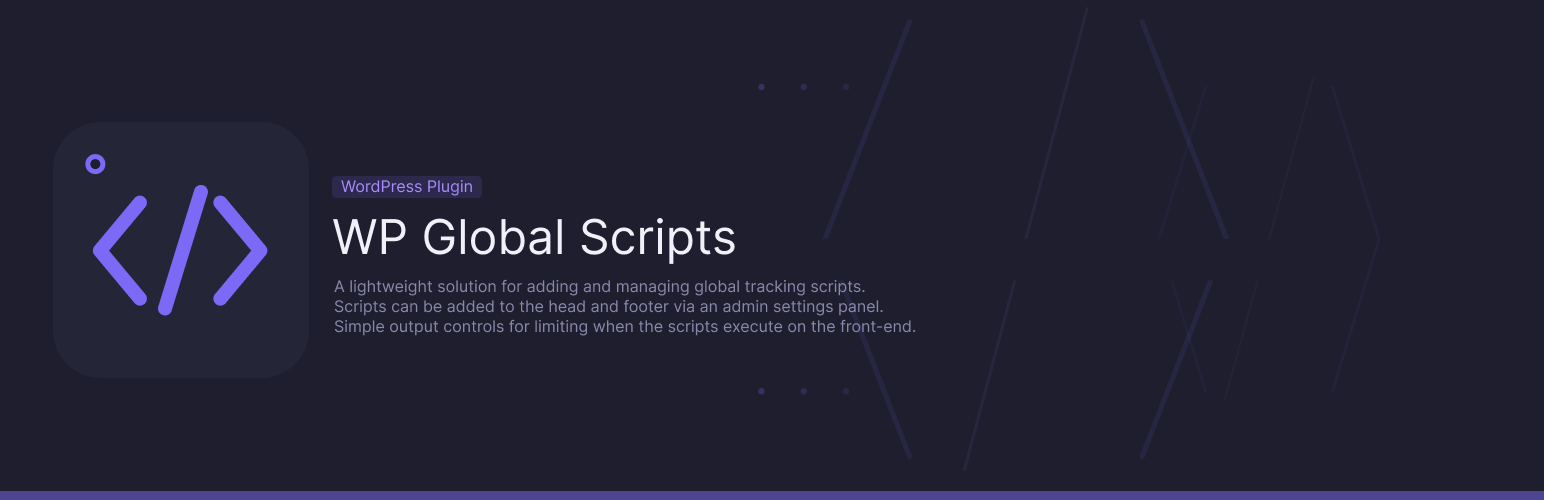
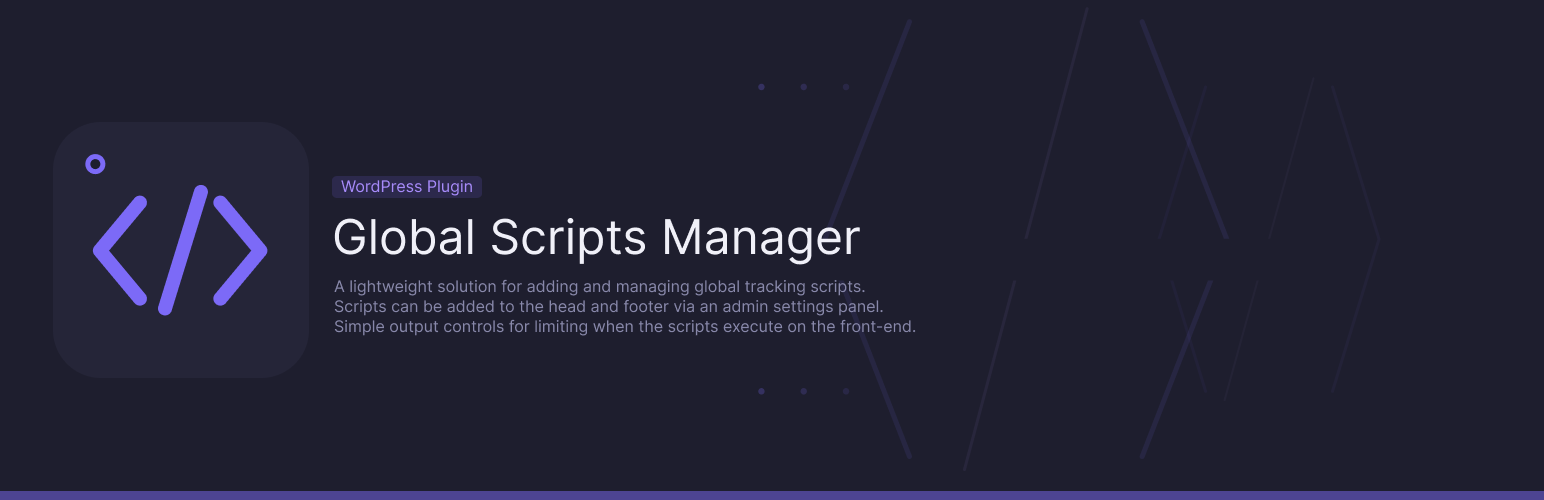
update plugin name, compliance for WP Plugin Checker before submission to wordpress.org

Changed region(s): [[0.2176, 0.42, 0.5596, 0.54]]

diff --git a/includes/admin-page.php b/includes/admin-page.php
@@ -1,23 +1,25 @@
 <?php
 /**
- * Admin page functionality for the WP Global Scripts plugin.
+ * Admin page functionality for the Global Scripts Manager plugin.
  */
 
+if ( ! defined( 'ABSPATH' ) ) exit;
+
 // Add settings page to admin menu
-function gs_add_settings_page() {
+function gsm_add_settings_page() {
   add_options_page(
-    'WP Global Scripts',
+    'Global Scripts Manager',
     'Global Scripts',
     'manage_options',
-    'global-scripts',
-    'gs_render_settings_page'
+    'global-scripts-manager',
+    'gsm_render_settings_page'
   );
 }
-add_action( 'admin_menu', 'gs_add_settings_page' );
+add_action( 'admin_menu', 'gsm_add_settings_page' );
 
 // Load CodeMirror editor on the plugin settings page.
-function gs_enqueue_admin_assets( $hook_suffix ) {
-  if ( 'settings_page_global-scripts' !== $hook_suffix ) {
+function gsm_enqueue_admin_assets( $hook_suffix ) {
+  if ( 'settings_page_global-scripts-manager' !== $hook_suffix ) {
     return;
   }
 
@@ -31,52 +33,52 @@ function gs_enqueue_admin_assets( $hook_suffix ) {
 
     wp_add_inline_script(
       'wp-theme-plugin-editor',
-      "jQuery(function($){var settings={$encoded_settings};wp.codeEditor.initialize('gs_head_scripts', settings);wp.codeEditor.initialize('gs_footer_scripts', settings);});"
+      "jQuery(function($){var settings={$encoded_settings};wp.codeEditor.initialize('gsm_head_scripts', settings);wp.codeEditor.initialize('gsm_footer_scripts', settings);});"
     );
   }
 }
-add_action( 'admin_enqueue_scripts', 'gs_enqueue_admin_assets' );
+add_action( 'admin_enqueue_scripts', 'gsm_enqueue_admin_assets' );
 
 // Add a settings link to the plugin actions on the plugins page
-function gs_add_settings_link( $links ) {
-  $settings_link = '<a href="options-general.php?page=global-scripts">' . __( 'Settings', 'global-scripts' ) . '</a>';
+function gsm_add_settings_link( $links ) {
+  $settings_link = '<a href="options-general.php?page=global-scripts-manager">' . __( 'Settings', 'global-scripts-manager' ) . '</a>';
   array_unshift( $links, $settings_link );
   return $links;
 }
-add_filter( 'plugin_action_links_' . plugin_basename( dirname( __DIR__ ) . '/global-scripts.php' ), 'gs_add_settings_link' );
+add_filter( 'plugin_action_links_' . plugin_basename( dirname( __DIR__ ) . '/global-scripts-manager.php' ), 'gsm_add_settings_link' );
 
 // Register settings for head and footer scripts, and the output control checkboxes.
-function gs_register_settings() {
-  register_setting( 'global_scripts_group', 'gs_head_scripts', [
-    'sanitize_callback' => 'gs_sanitize_scripts',
+function gsm_register_settings() {
+  register_setting( 'global_scripts_group', 'gsm_head_scripts', [
+    'sanitize_callback' => 'gsm_sanitize_scripts',
     'default' => '',
   ]);
 
-  register_setting( 'global_scripts_group', 'gs_footer_scripts', [
-    'sanitize_callback' => 'gs_sanitize_scripts',
+  register_setting( 'global_scripts_group', 'gsm_footer_scripts', [
+    'sanitize_callback' => 'gsm_sanitize_scripts',
     'default' => '',
   ]);
 
-  register_setting( 'global_scripts_group', 'gs_disable_for_admins', [
-    'sanitize_callback' => 'gs_sanitize_checkbox',
+  register_setting( 'global_scripts_group', 'gsm_disable_for_admins', [
+    'sanitize_callback' => 'gsm_sanitize_checkbox',
     'default' => 0,
   ]);
 
-  register_setting( 'global_scripts_group', 'gs_disable_for_logged_in', [
-    'sanitize_callback' => 'gs_sanitize_checkbox',
+  register_setting( 'global_scripts_group', 'gsm_disable_for_logged_in', [
+    'sanitize_callback' => 'gsm_sanitize_checkbox',
     'default' => 0,
   ]);
 }
-add_action( 'admin_init', 'gs_register_settings' );
+add_action( 'admin_init', 'gsm_register_settings' );
 
 // Normalize checkbox values to 1 or 0.
-function gs_sanitize_checkbox( $input ) {
+function gsm_sanitize_checkbox( $input ) {
   return ! empty( $input ) ? 1 : 0;
 }
 
 // Utility function to sanitize script inputs
 // Allow only <script>, <noscript>, and <style> tags and their common attributes
-function gs_sanitize_scripts( $input ) {
+function gsm_sanitize_scripts( $input ) {
   return wp_kses( $input, [
     'script' => [
       'type' => true,
@@ -103,13 +105,13 @@ function gs_sanitize_scripts( $input ) {
 }
 
 // Render the actual options page
-function gs_render_settings_page() {
+function gsm_render_settings_page() {
   // Block users without the manage_options capability
   if ( ! current_user_can( 'manage_options' ) ) return; ?>
 
   <div class="wrap">
     <!-- Title -->
-    <h1><?php esc_html_e( 'WP Global Scripts', 'global-scripts' ); ?></h1>
+    <h1><?php esc_html_e( 'Global Scripts Manager', 'global-scripts-manager' ); ?></h1>
 
     <!-- Styles -->
     <style>
@@ -139,13 +141,13 @@ function gs_render_settings_page() {
 
     <!-- Intro card -->
     <div class="gs-intro-card">
-      <h2><?php esc_html_e( 'Add trusted scripts with confidence', 'global-scripts' ); ?></h2>
-      <p><?php esc_html_e( 'Use the editors below to add site-wide scripts for your header and footer.', 'global-scripts' ); ?></p>
+      <h2><?php esc_html_e( 'Add trusted scripts with confidence', 'global-scripts-manager' ); ?></h2>
+      <p><?php esc_html_e( 'Use the editors below to add site-wide scripts for your header and footer.', 'global-scripts-manager' ); ?></p>
       <ul class="gs-checklist">
-        <li><?php esc_html_e( 'Paste snippets only from trusted providers.', 'global-scripts' ); ?></li>
-        <li><?php esc_html_e( 'Use the output toggles to avoid tracking admin sessions.', 'global-scripts' ); ?></li>
-        <li><?php esc_html_e( 'Use Header Scripts for tags that must load in the site <head>.', 'global-scripts' ); ?></li>
-        <li><?php esc_html_e( 'Use Footer Scripts for tags that should run before the closing </body> tag.', 'global-scripts' ); ?></li>
+        <li><?php esc_html_e( 'Paste snippets only from trusted providers.', 'global-scripts-manager' ); ?></li>
+        <li><?php esc_html_e( 'Use the output toggles to avoid tracking admin sessions.', 'global-scripts-manager' ); ?></li>
+        <li><?php esc_html_e( 'Use Header Scripts for tags that must load in the site <head>.', 'global-scripts-manager' ); ?></li>
+        <li><?php esc_html_e( 'Use Footer Scripts for tags that should run before the closing </body> tag.', 'global-scripts-manager' ); ?></li>
       </ul>
     </div>
 
@@ -155,49 +157,49 @@ function gs_render_settings_page() {
       <table class="form-table">
         <!-- Header scripts -->
         <tr>
-          <th scope="row"><label for="gs_head_scripts"><?php esc_html_e( 'Header Scripts', 'global-scripts' ); ?></label></th>
+          <th scope="row"><label for="gsm_head_scripts"><?php esc_html_e( 'Header Scripts', 'global-scripts-manager' ); ?></label></th>
           <td>
-            <textarea id="gs_head_scripts" name="gs_head_scripts" rows="8" class="large-text code"><?php echo esc_textarea( get_option( 'gs_head_scripts' ) ); ?></textarea>
-            <p class="description"><?php esc_html_e( 'Scripts added here will output inside &lt;head&gt; on every page.', 'global-scripts' ); ?></p>
+            <textarea id="gsm_head_scripts" name="gsm_head_scripts" rows="8" class="large-text code"><?php echo esc_textarea( get_option( 'gsm_head_scripts' ) ); ?></textarea>
+            <p class="description"><?php esc_html_e( 'Scripts added here will output inside &lt;head&gt; on every page.', 'global-scripts-manager' ); ?></p>
           </td>
         </tr>
         <!-- Footer scripts -->
         <tr>
-          <th scope="row"><label for="gs_footer_scripts"><?php esc_html_e( 'Footer Scripts', 'global-scripts' ); ?></label></th>
+          <th scope="row"><label for="gsm_footer_scripts"><?php esc_html_e( 'Footer Scripts', 'global-scripts-manager' ); ?></label></th>
           <td>
-            <textarea id="gs_footer_scripts" name="gs_footer_scripts" rows="8" class="large-text code"><?php echo esc_textarea( get_option( 'gs_footer_scripts' ) ); ?></textarea>
-            <p class="description"><?php esc_html_e( 'Scripts added here will output before &lt;/body&gt; on every page.', 'global-scripts' ); ?></p>
+            <textarea id="gsm_footer_scripts" name="gsm_footer_scripts" rows="8" class="large-text code"><?php echo esc_textarea( get_option( 'gsm_footer_scripts' ) ); ?></textarea>
+            <p class="description"><?php esc_html_e( 'Scripts added here will output before &lt;/body&gt; on every page.', 'global-scripts-manager' ); ?></p>
           </td>
         </tr>
         <!-- Output controls -->
         <tr>
-          <th scope="row"><?php esc_html_e( 'Output Controls', 'global-scripts' ); ?></th>
+          <th scope="row"><?php esc_html_e( 'Output Controls', 'global-scripts-manager' ); ?></th>
           <td>
             <fieldset>
               <!-- Disable for admins -->
-              <label for="gs_disable_for_admins">
+              <label for="gsm_disable_for_admins">
                 <input
-                  id="gs_disable_for_admins"
-                  name="gs_disable_for_admins"
+                  id="gsm_disable_for_admins"
+                  name="gsm_disable_for_admins"
                   type="checkbox"
                   value="1"
-                  <?php checked( 1, (int) get_option( 'gs_disable_for_admins', 0 ) ); ?>
+                  <?php checked( 1, (int) get_option( 'gsm_disable_for_admins', 0 ) ); ?>
                 />
-                <?php esc_html_e( 'Do not output scripts for administrators.', 'global-scripts' ); ?>
+                <?php esc_html_e( 'Do not output scripts for administrators.', 'global-scripts-manager' ); ?>
               </label>
               <br />
               <!-- Disable for all logged-in users -->
-              <label for="gs_disable_for_logged_in">
+              <label for="gsm_disable_for_logged_in">
                 <input
-                  id="gs_disable_for_logged_in"
-                  name="gs_disable_for_logged_in"
+                  id="gsm_disable_for_logged_in"
+                  name="gsm_disable_for_logged_in"
                   type="checkbox"
                   value="1"
-                  <?php checked( 1, (int) get_option( 'gs_disable_for_logged_in', 0 ) ); ?>
+                  <?php checked( 1, (int) get_option( 'gsm_disable_for_logged_in', 0 ) ); ?>
                 />
-                <?php esc_html_e( 'Do not output scripts for all logged-in users.', 'global-scripts' ); ?>
+                <?php esc_html_e( 'Do not output scripts for all logged-in users.', 'global-scripts-manager' ); ?>
               </label>
-              <p class="description"><?php esc_html_e( 'If both are enabled, script output is disabled for any logged-in user.', 'global-scripts' ); ?></p>
+              <p class="description"><?php esc_html_e( 'If both are enabled, script output is disabled for any logged-in user.', 'global-scripts-manager' ); ?></p>
             </fieldset>
           </td>
         </tr>

diff --git a/includes/frontend-output.php b/includes/frontend-output.php
@@ -1,18 +1,20 @@
 <?php
 /**
- * Frontend output functionality for the WP Global Scripts plugin.
+ * Frontend output functionality for the Global Scripts Manager plugin.
  * Both scripts bypass the wp_kses filtering here since we already sanitize on input
  */
 
+if ( ! defined( 'ABSPATH' ) ) exit;
+
 // Determine if script output should be skipped for this request.
-function gs_should_skip_output() {
+function gsm_should_skip_output() {
   // Block for logged in users if the option is enabled
-  if ( (int) get_option( 'gs_disable_for_logged_in', 0 ) === 1 && is_user_logged_in() ) {
+  if ( (int) get_option( 'gsm_disable_for_logged_in', 0 ) === 1 && is_user_logged_in() ) {
     return true;
   }
 
   // Block for administrators if the option is enabled
-  if ( (int) get_option( 'gs_disable_for_admins', 0 ) === 1 && current_user_can( 'manage_options' ) ) {
+  if ( (int) get_option( 'gsm_disable_for_admins', 0 ) === 1 && current_user_can( 'manage_options' ) ) {
     return true;
   }
 
@@ -21,32 +23,32 @@ function gs_should_skip_output() {
 
 // Output the head scripts on the frontend
 // Priority 1 to ensure it loads early in the head
-function gs_output_head_scripts() {
-  if ( gs_should_skip_output() ) {
+function gsm_output_head_scripts() {
+  if ( gsm_should_skip_output() ) {
     return;
   }
 
-  $header_scripts = get_option( 'gs_head_scripts', '' );
+  $header_scripts = get_option( 'gsm_head_scripts', '' );
   if ( ! empty( $header_scripts ) ) {
     // phpcs:ignore WordPress.Security.EscapeOutput
-    echo '<!-- WP Global Scripts Plugin: Head Scripts -->' . "\n";
+    echo '<!-- Global Scripts Manager Plugin: Head Scripts -->' . "\n";
     echo $header_scripts . "\n";
   }
 }
-add_action( 'wp_head', 'gs_output_head_scripts', 1 );
+add_action( 'wp_head', 'gsm_output_head_scripts', 1 );
 
 // Output the footer scripts on the frontend
 // Priority 100 to ensure it runs after most other footer actions
-function gs_output_footer_scripts() {
-  if ( gs_should_skip_output() ) {
+function gsm_output_footer_scripts() {
+  if ( gsm_should_skip_output() ) {
     return;
   }
 
-  $footer_scripts = get_option( 'gs_footer_scripts', '' );
+  $footer_scripts = get_option( 'gsm_footer_scripts', '' );
   if ( ! empty( $footer_scripts ) ) {
     // phpcs:ignore WordPress.Security.EscapeOutput
-    echo '<!-- WP Global Scripts Plugin: Footer Scripts -->' . "\n";
+    echo '<!-- Global Scripts Manager Plugin: Footer Scripts -->' . "\n";
     echo $footer_scripts . "\n";
   }
 }
-add_action( 'wp_footer', 'gs_output_footer_scripts', 100 );
+add_action( 'wp_footer', 'gsm_output_footer_scripts', 100 );

diff --git a/uninstall.php b/uninstall.php
@@ -7,10 +7,10 @@ if ( ! defined( 'WP_UNINSTALL_PLUGIN' ) ) exit;
 
 // Gather option names to delete
 $option_names = [
-  'gs_head_scripts',
-  'gs_footer_scripts',
-  'gs_disable_for_admins',
-  'gs_disable_for_logged_in',
+  'gsm_head_scripts',
+  'gsm_footer_scripts',
+  'gsm_disable_for_admins',
+  'gsm_disable_for_logged_in',
 ];
 
 // Loop through multisite if present, deleting options for each site

diff --git a/README.md b/README.md
@@ -1,4 +1,4 @@
-# WP Global Scripts
+# Global Scripts Manager
 
 ![Global Scripts banner](assets/banner-1544x500.png)
 
@@ -6,7 +6,7 @@ A lightweight WordPress solution for adding and managing global tracking scripts
 
 ## Description
 
-WP Global Scripts lets site administrators add trusted tracking or utility snippets that load site-wide without editing theme files.
+Global Scripts Manager lets site administrators add trusted tracking or utility snippets that load site-wide without editing theme files.
 
 The plugin provides:
 
@@ -41,7 +41,7 @@ WordPress.org will automatically use the standard banner and icon files when the
 
 ## Installation
 
-1. Upload the `global-scripts` folder to `/wp-content/plugins/`, or install through the WordPress Plugins screen.
+1. Upload the `global-scripts-manager` folder to `/wp-content/plugins/`, or install through the WordPress Plugins screen.
 2. Activate the plugin.
 3. Go to **Settings > Global Scripts**.
 4. Add your scripts to the Header Scripts and/or Footer Scripts fields.
@@ -51,11 +51,11 @@ WordPress.org will automatically use the standard banner and icon files when the
 
 ### Header Scripts
 
-Content saved in `gs_head_scripts` is printed in the `<head>` on every frontend page.
+Content saved in `gsm_head_scripts` is printed in the `<head>` on every frontend page.
 
 ### Footer Scripts
 
-Content saved in `gs_footer_scripts` is printed before `</body>` on every frontend page.
+Content saved in `gsm_footer_scripts` is printed before `</body>` on every frontend page.
 
 ## Security Notes
 
@@ -67,8 +67,8 @@ Content saved in `gs_footer_scripts` is printed before `</body>` on every fronte
 
 When the plugin is uninstalled, it deletes:
 
-- `gs_head_scripts`
-- `gs_footer_scripts`
+- `gsm_head_scripts`
+- `gsm_footer_scripts`
 
 In multisite, cleanup runs for each site.
 
@@ -76,8 +76,9 @@ In multisite, cleanup runs for each site.
 
 ## 2.1.1
 
-- Updated plugin banner assets to reflect the WP Global Scripts name.
+- Updated plugin banner assets to reflect the Global Scripts Manager name.
 - Added final screenshots for plugin listing and documentation.
+- Renamed plugin branding to Global Scripts Manager for WordPress.org naming compliance.
 
 ## 2.1.0
 
@@ -86,7 +87,7 @@ In multisite, cleanup runs for each site.
 
 ## 2.0.0
 
-- Renamed plugin branding to WP Global Scripts.
+- Updated plugin branding and naming.
 - Added CodeMirror editor support for both script fields.
 - Added output controls for admin and logged-in user sessions.
 - Refreshed the settings page with a polished guidance card.